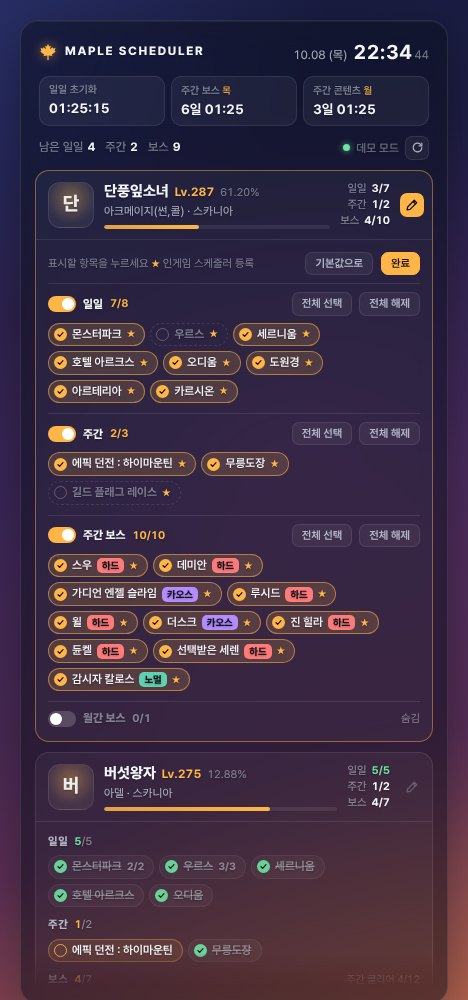
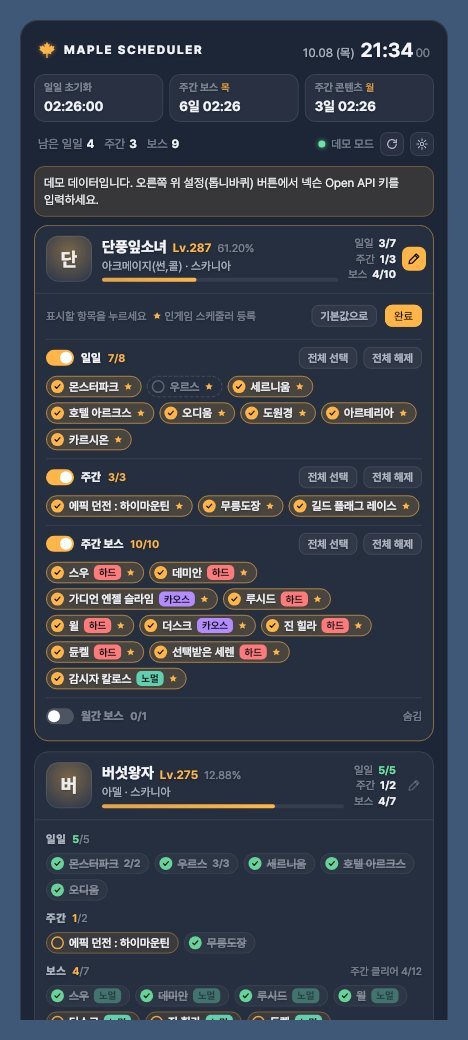
Document the native app and add a long-run leak test
- README: install/usage for the native overlay, memory numbers from
  the Windows selftest (about 32 MB private vs about 145 MB for the
  Electron version), dev commands and file map; screenshots now come
  from the native renderer
- Leak test runs 650 sync + redraw cycles (about a week of 15-minute
  refreshes); managed memory stays flat at about 1.3 MB
- Unexpected sync errors now show up as a notice and go to error.log;
  the tray menu is no longer rebuilt on every settings preview
- The API rate-limit gap can be lowered in tests

Claude-Session: https://claude.ai/code/session_01C2jvD5QZWzNEksedZLuRPk

diff --git a/native/tests/MapleHud.Core.Tests/LeakTests.cs b/native/tests/MapleHud.Core.Tests/LeakTests.cs
@@ -1,0 +1,92 @@
+using System;
+using System.Diagnostics;
+using System.Net.Http;
+using System.Threading.Tasks;
+using MapleHud.Core.Render;
+using SkiaSharp;
+using Xunit;
+using Xunit.Abstractions;
+
+namespace MapleHud.Core.Tests
+{
+    /// <summary>15분 주기 동기화와 다시 그리기를 오래 반복해도 메모리가 늘지 않는지</summary>
+    [Collection("serial")]
+    public class LeakTests
+    {
+        private readonly ITestOutputHelper _out;
+        public LeakTests(ITestOutputHelper output) { _out = output; }
+
+        [Fact]
+        public async Task 동기화와_그리기를_반복해도_메모리가_늘지_않는다()
+        {
+            int gap = NexonApi.MinGapMs;
+            NexonApi.MinGapMs = 0;
+            try
+            {
+                long now = T.Now;
+                var fake = new FakeNexon();
+                var http = new HttpClient(fake);
+                var store = JsonStore.InMemory();
+                var s = new HudSettings { ApiKey = "test_key" };
+                var engine = new SyncEngine(s, store, x => new NexonApi(http, x.ApiKey, "https://api.test"), () => now);
+                var ctl = new HudController(engine, store, s, () => now);
+                using (var fonts = FontSet.Load(RenderTests.FontsDir()))
+                using (var renderer = new HudRenderer(fonts))
+                {
+                    int version = 0;
+                    int calls = 0;
+                    long Cycle()
+                    {
+                        engine.SyncAsync(false).GetAwaiter().GetResult();
+                        var input = new RenderInput { View = ctl.Build(), Settings = s, Now = now, MaxHeight = 1000, BodyVersion = ++version };
+                        var layout = renderer.Measure(input);
+                        using (var bmp = new SKBitmap((int)layout.Width + 1, (int)layout.Height + 1))
+                        using (var canvas = new SKCanvas(bmp))
+                        {
+                            renderer.Draw(canvas, input);
+                            // 매초 그리기 (카드 영역 캐시 사용)
+                            for (int i = 0; i < 5; i++)
+                            {
+                                input.Now += 1000;
+                                renderer.Draw(canvas, input);
+                            }
+                        }
+                        now += 15 * 60 * 1000;
+                        // 가짜 서버가 기록하는 호출 목록은 비워서 측정에서 뺀다
+                        calls += fake.Calls.Count;
+                        fake.Calls.Clear();
+                        return 0;
+                    }
+
+                    long Managed()
+                    {
+                        GC.Collect();
+                        GC.WaitForPendingFinalizers();
+                        GC.Collect();
+                        return GC.GetTotalMemory(true);
+                    }
+
+                    for (int i = 0; i < 50; i++) Cycle();
+                    long m1 = Managed();
+                    long p1 = Process.GetCurrentProcess().PrivateMemorySize64;
+                    var sw = Stopwatch.StartNew();
+                    for (int i = 0; i < 300; i++) Cycle();
+                    long mid = Managed();
+                    for (int i = 0; i < 300; i++) Cycle();
+                    long m2 = Managed();
+                    _out.WriteLine($"managed after 350: {mid >> 10}KB, after 650: {m2 >> 10}KB");
+                    var proc = Process.GetCurrentProcess();
+                    proc.Refresh();
+                    long p2 = proc.PrivateMemorySize64;
+                    _out.WriteLine($"600 cycles in {sw.ElapsedMilliseconds}ms, managed {m1 >> 10}KB -> {m2 >> 10}KB, private {p1 >> 20}MB -> {p2 >> 20}MB, api calls {calls}");
+                    Assert.True(m2 - m1 < 256 * 1024, $"managed grew {(m2 - m1) >> 10}KB");
+                    Assert.True(calls > 1800);
+                }
+            }
+            finally
+            {
+                NexonApi.MinGapMs = gap;
+            }
+        }
+    }
+}

diff --git a/native/src/MapleHud/HudApp.cs b/native/src/MapleHud/HudApp.cs
@@ -40,6 +40,7 @@ namespace MapleHud
         private long _lastDailyReset;
         private bool _idle;
         private SettingsForm _settingsForm;
+        private Exception _loggedError;
 
         public HudApp()
         {
@@ -64,7 +65,11 @@ namespace MapleHud
                 _scroll = Math.Max(0, Math.Min(_scroll + delta, _window.CurrentLayout?.MaxScroll ?? 0));
                 Invalidate(body: true);
             };
-            _engine.Changed += () => Invalidate(body: true, rebuild: true);
+            _engine.Changed += () =>
+            {
+                if (_engine.LastError != null && _engine.LastError != _loggedError) Log(_loggedError = _engine.LastError);
+                Invalidate(body: true, rebuild: true);
+            };
             _avatars.Loaded += () => Invalidate(body: true);
 
             _tray = new NotifyIcon { Icon = _icon, Text = "Maple Scheduler HUD", Visible = true, ContextMenuStrip = BuildMenu() };
@@ -209,6 +214,7 @@ namespace MapleHud
 
         private void ApplySettings(HudSettings next, bool persist)
         {
+            bool topMostChanged = next.AlwaysOnTop != _settings.AlwaysOnTop;
             _settings = HudSettings.Sanitize(next.Clone());
             _window.SetTopMost(_settings.AlwaysOnTop);
             _engine.UpdateSettings(_settings);
@@ -217,7 +223,13 @@ namespace MapleHud
                 try { _settings.Save(SettingsPath); }
                 catch (Exception e) { Log(e); }
             }
-            _tray.ContextMenuStrip = BuildMenu();
+            if (topMostChanged)
+            {
+                // 체크 표시를 새로 그리기 위해 메뉴를 다시 만든다
+                var old = _tray.ContextMenuStrip;
+                _tray.ContextMenuStrip = BuildMenu();
+                old?.Dispose();
+            }
             Invalidate(body: true, rebuild: true);
         }
 

diff --git a/native/src/MapleHud.Core/SyncEngine.cs b/native/src/MapleHud.Core/SyncEngine.cs
@@ -61,6 +61,8 @@ namespace MapleHud.Core
         public bool Demo { get; private set; }
         public long LastSync { get; private set; }
         public long NextSyncAt { get; private set; }
+        /// <summary>마지막으로 난 예상 못 한 오류 (앱이 로그로 남긴다)</summary>
+        public Exception LastError { get; private set; }
 
         /// <summary>표시할 내용이 바뀌었을 때 (다시 그리기)</summary>
         public event Action Changed;
@@ -157,6 +159,12 @@ namespace MapleHud.Core
             catch (ApiException e)
             {
                 Notice = new Notice("error", e.Message);
+            }
+            catch (Exception e) when (!(e is OutOfMemoryException))
+            {
+                // 응답 형식이 바뀌는 등 예상 못 한 문제도 화면에 알린다
+                Notice = new Notice("error", "동기화 중 오류: " + e.Message);
+                LastError = e;
             }
             finally
             {

diff --git a/native/src/MapleHud.Core/NexonApi.cs b/native/src/MapleHud.Core/NexonApi.cs
@@ -50,7 +50,8 @@ namespace MapleHud.Core
     public sealed class NexonApi
     {
         public const string DefaultBase = "https://open.api.nexon.com";
-        private const int MinGapMs = 260;
+        // 테스트에서만 0으로 바꾼다
+        public static int MinGapMs = 260;
         private static readonly TimeSpan Timeout = TimeSpan.FromSeconds(12);
 
         private static readonly SemaphoreSlim Gate = new SemaphoreSlim(1, 1);
